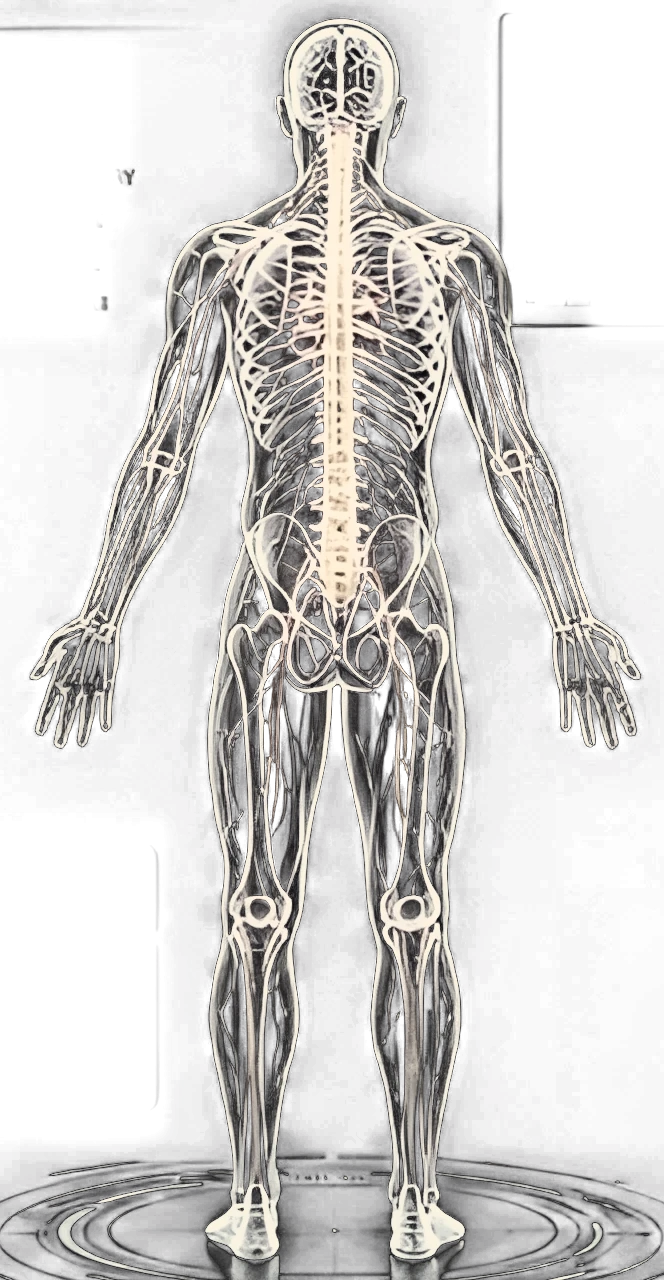
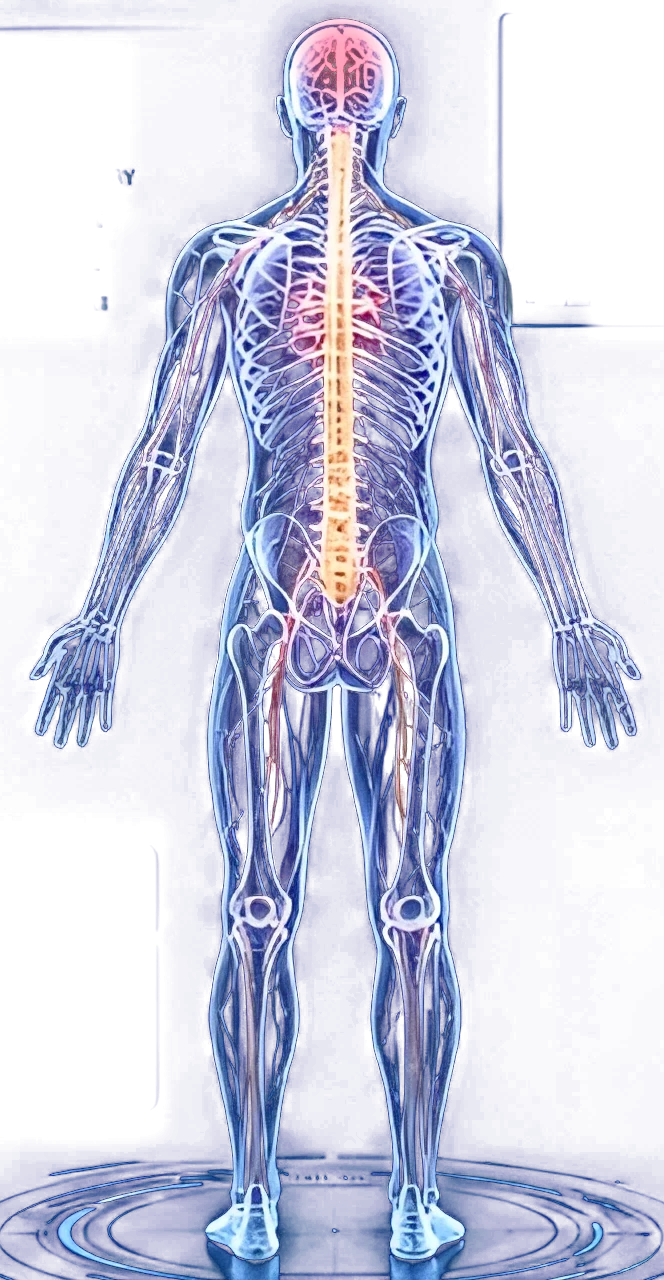
Keep the blue anatomy; colour the brain and the heart
The body views return to their original holographic blue. The brain is
picked out in rose and the heart in garnet, each with a soft glow, in
every view (the heart isn't visible from behind). The warm silver grade
stays available with --warm.

Claude-Session: https://claude.ai/code/session_01VH3XWsG9Hc8pn92AvhoL89

diff --git a/frontend/scripts/grade_views.py b/frontend/scripts/grade_views.py
@@ -1,36 +1,104 @@
-"""Colour-grade the transparent body views to the Champagne noir palette.
+"""Highlight the brain and the heart in the transparent body views.
 
-Usage: python frontend/scripts/grade_views.py design/reference/anatomy/views-ungraded frontend/public/scan
+Usage: python frontend/scripts/grade_views.py design/reference/anatomy/views-ungraded frontend/public/scan [--warm]
 Needs Pillow and NumPy. The input views come from cut_views.py.
 
-Each view becomes a warm silver: its brightness is mapped from a graphite shadow to an ivory highlight,
-a little of the original colour is kept (so the heart and spine still read), and darks stay dark.
+The body keeps its original blue. The brain (rose) and the heart (garnet) are picked out in colour with a
+soft glow, because they stand for what PRISM reads: mind and heart. With --warm, the body is first graded
+to a warm silver (tried in the Champagne noir restyle, then set aside in favour of the original blue).
 """
 
 import sys
 from pathlib import Path
 
 import numpy as np
-from PIL import Image
+from PIL import Image, ImageDraw, ImageFilter
 
 SHADOW = np.array((0.20, 0.17, 0.13), dtype=np.float32)
 HIGHLIGHT = np.array((1.00, 0.95, 0.86), dtype=np.float32)
 KEEP_ORIGINAL = 0.18
 GAMMA = 0.92
+BRAIN = np.array((0.88, 0.44, 0.52), dtype=np.float32)  # rose
+HEART = np.array((0.86, 0.27, 0.31), dtype=np.float32)  # garnet
 
 
-def grade(path: Path, out: Path) -> None:
+def _head(alpha: np.ndarray) -> tuple[float, float, float, float]:
+    """Centre x, top y, neck y and width of the head, from the body's outline."""
+    h = alpha.shape[0]
+    rows = alpha > 0.35
+    top = int(np.argmax(rows.any(axis=1)))
+    widths = [(int(np.ptp(rows[y].nonzero()[0])) if rows[y].any() else 0) for y in range(h)]
+    span = range(top + int(0.09 * h), top + int(0.16 * h))
+    neck = min(span, key=lambda y: widths[y] if widths[y] else 10**9)
+    head_rows = rows[top:neck]
+    xs = head_rows.nonzero()[1]
+    return float(np.median(xs)), float(top), float(neck), float(np.percentile(xs, 90) - np.percentile(xs, 10))
+
+
+def _pink(rgb: np.ndarray, alpha: np.ndarray) -> np.ndarray:
+    r, g, b = rgb[..., 0], rgb[..., 1], rgb[..., 2]
+    return np.clip((r - g) - 0.10, 0, 1) * (b >= g - 0.03) * alpha[..., 0]
+
+
+def _ellipse(shape: tuple[int, int], cx: float, cy: float, rx: float, ry: float, feather: float) -> np.ndarray:
+    m = Image.new("L", (shape[1], shape[0]), 0)
+    ImageDraw.Draw(m).ellipse((cx - rx, cy - ry, cx + rx, cy + ry), fill=255)
+    return np.asarray(m.filter(ImageFilter.GaussianBlur(feather)), dtype=np.float32)[..., None] / 255
+
+
+def organ_masks(view: str, rgb: np.ndarray, alpha: np.ndarray) -> list[tuple[np.ndarray, np.ndarray]]:
+    """Soft masks for the brain and the heart in one view (the heart isn't visible from behind)."""
+    h, w = alpha.shape[:2]
+    pink = _pink(rgb, alpha)
+    out = []
+    if view == "top":
+        for lo, hi, colour in ((0.0, 0.45, BRAIN), (0.40, 0.75, HEART)):
+            ys, xs = np.nonzero(pink[int(lo * h) : int(hi * h)] > 0.08)
+            ys = ys + int(lo * h)
+            cx, cy = np.median(xs), np.median(ys)
+            rx, ry = (np.percentile(xs, 95) - np.percentile(xs, 5)) / 2, (np.percentile(ys, 95) - np.percentile(ys, 5)) / 2
+            out.append((_ellipse((h, w), cx, cy, rx * 1.1, ry * 1.1, 0.03 * w), colour))
+        return out
+    cx, top, neck, hw = _head(alpha[..., 0])
+    hh = neck - top
+    out.append((_ellipse((h, w), cx, top + 0.3 * hh, 0.4 * hw, 0.27 * hh, 0.01 * h), BRAIN))
+    if view != "back":
+        band = (slice(int(0.20 * h), int(0.34 * h)),)
+        ys, xs = np.nonzero(pink[band] > 0.12)
+        ys = ys + int(0.20 * h)
+        # The heart is the densest pink cluster in the chest: take the median, then its spread.
+        hx, hy = np.median(xs), np.median(ys)
+        near = (np.abs(xs - hx) < 0.06 * h) & (np.abs(ys - hy) < 0.06 * h)
+        hx, hy = np.median(xs[near]), np.median(ys[near])
+        out.append((_ellipse((h, w), hx, hy, 0.034 * h, 0.042 * h, 0.012 * h), HEART))
+    return out
+
+
+def grade(path: Path, out: Path, warm: bool = False) -> None:
     im = np.asarray(Image.open(path).convert("RGBA")).astype(np.float32) / 255
     rgb, alpha = im[..., :3], im[..., 3:]
     lum = np.clip((rgb @ np.array([0.2126, 0.7152, 0.0722], dtype=np.float32))[..., None] * 1.15, 0, 1)
-    toned = SHADOW * (1 - lum**GAMMA) + HIGHLIGHT * lum**GAMMA
-    mixed = toned * (1 - KEEP_ORIGINAL) + rgb * KEEP_ORIGINAL
-    mixed = np.clip(mixed * np.clip(lum * 1.4 + 0.15, 0, 1), 0, 1)
+    mixed = rgb.copy()
+    if warm:
+        toned = SHADOW * (1 - lum**GAMMA) + HIGHLIGHT * lum**GAMMA
+        mixed = toned * (1 - KEEP_ORIGINAL) + rgb * KEEP_ORIGINAL
+        mixed = np.clip(mixed * np.clip(lum * 1.4 + 0.15, 0, 1), 0, 1)
+    view = path.stem
+    for mask, colour in organ_masks(view, rgb, alpha):
+        # Tint the organ's own line work (so detail stays), then add a soft glow around it.
+        detail = np.clip(lum * 1.35, 0, 1)
+        tinted = colour * (0.3 + 0.8 * detail)
+        mixed = mixed * (1 - 0.9 * mask) + tinted * (0.9 * mask)
+        glow_src = Image.fromarray((np.clip(mask[..., 0] * detail[..., 0], 0, 1) * 255).astype(np.uint8))
+        glow = np.asarray(glow_src.filter(ImageFilter.GaussianBlur(0.02 * mask.shape[0])), dtype=np.float32)[..., None] / 255
+        mixed = np.clip(mixed + colour * glow * 0.55, 0, 1)
+        alpha = np.maximum(alpha, np.clip(glow * 0.9, 0, 1))
     Image.fromarray((np.concatenate([mixed, alpha], -1) * 255).astype(np.uint8)).save(out, quality=90, method=6)
 
 
 if __name__ == "__main__":
     src, dst = Path(sys.argv[1]), Path(sys.argv[2])
+    warm = "--warm" in sys.argv[3:]
     for view in ("front", "back", "left", "right", "top"):
-        grade(src / f"{view}.webp", dst / f"{view}.webp")
-        print("graded", view)
+        grade(src / f"{view}.webp", dst / f"{view}.webp", warm)
+        print("done", view)

diff --git a/design/PLAN.md b/design/PLAN.md
@@ -33,7 +33,7 @@ Decisions confirmed with the client: dark only, one champagne accent (originally
 **Funding class has no colour.** It is a four-step meter (▮▮▮▮ to ▮▯▯▯) with a text label.
 
 **Imagery and atmosphere:**
-- The body views are graded to warm silver (`frontend/scripts/grade_views.py`).
+- The body views keep their original holographic blue. The brain (rose) and the heart (garnet) are picked out in colour with a soft glow, because they stand for what PRISM reads: mind and heart (`frontend/scripts/grade_views.py`).
 - The landing page has a soft champagne glow, a gallery-style vignette, and a static film grain over the whole site.
 
 ## Type
